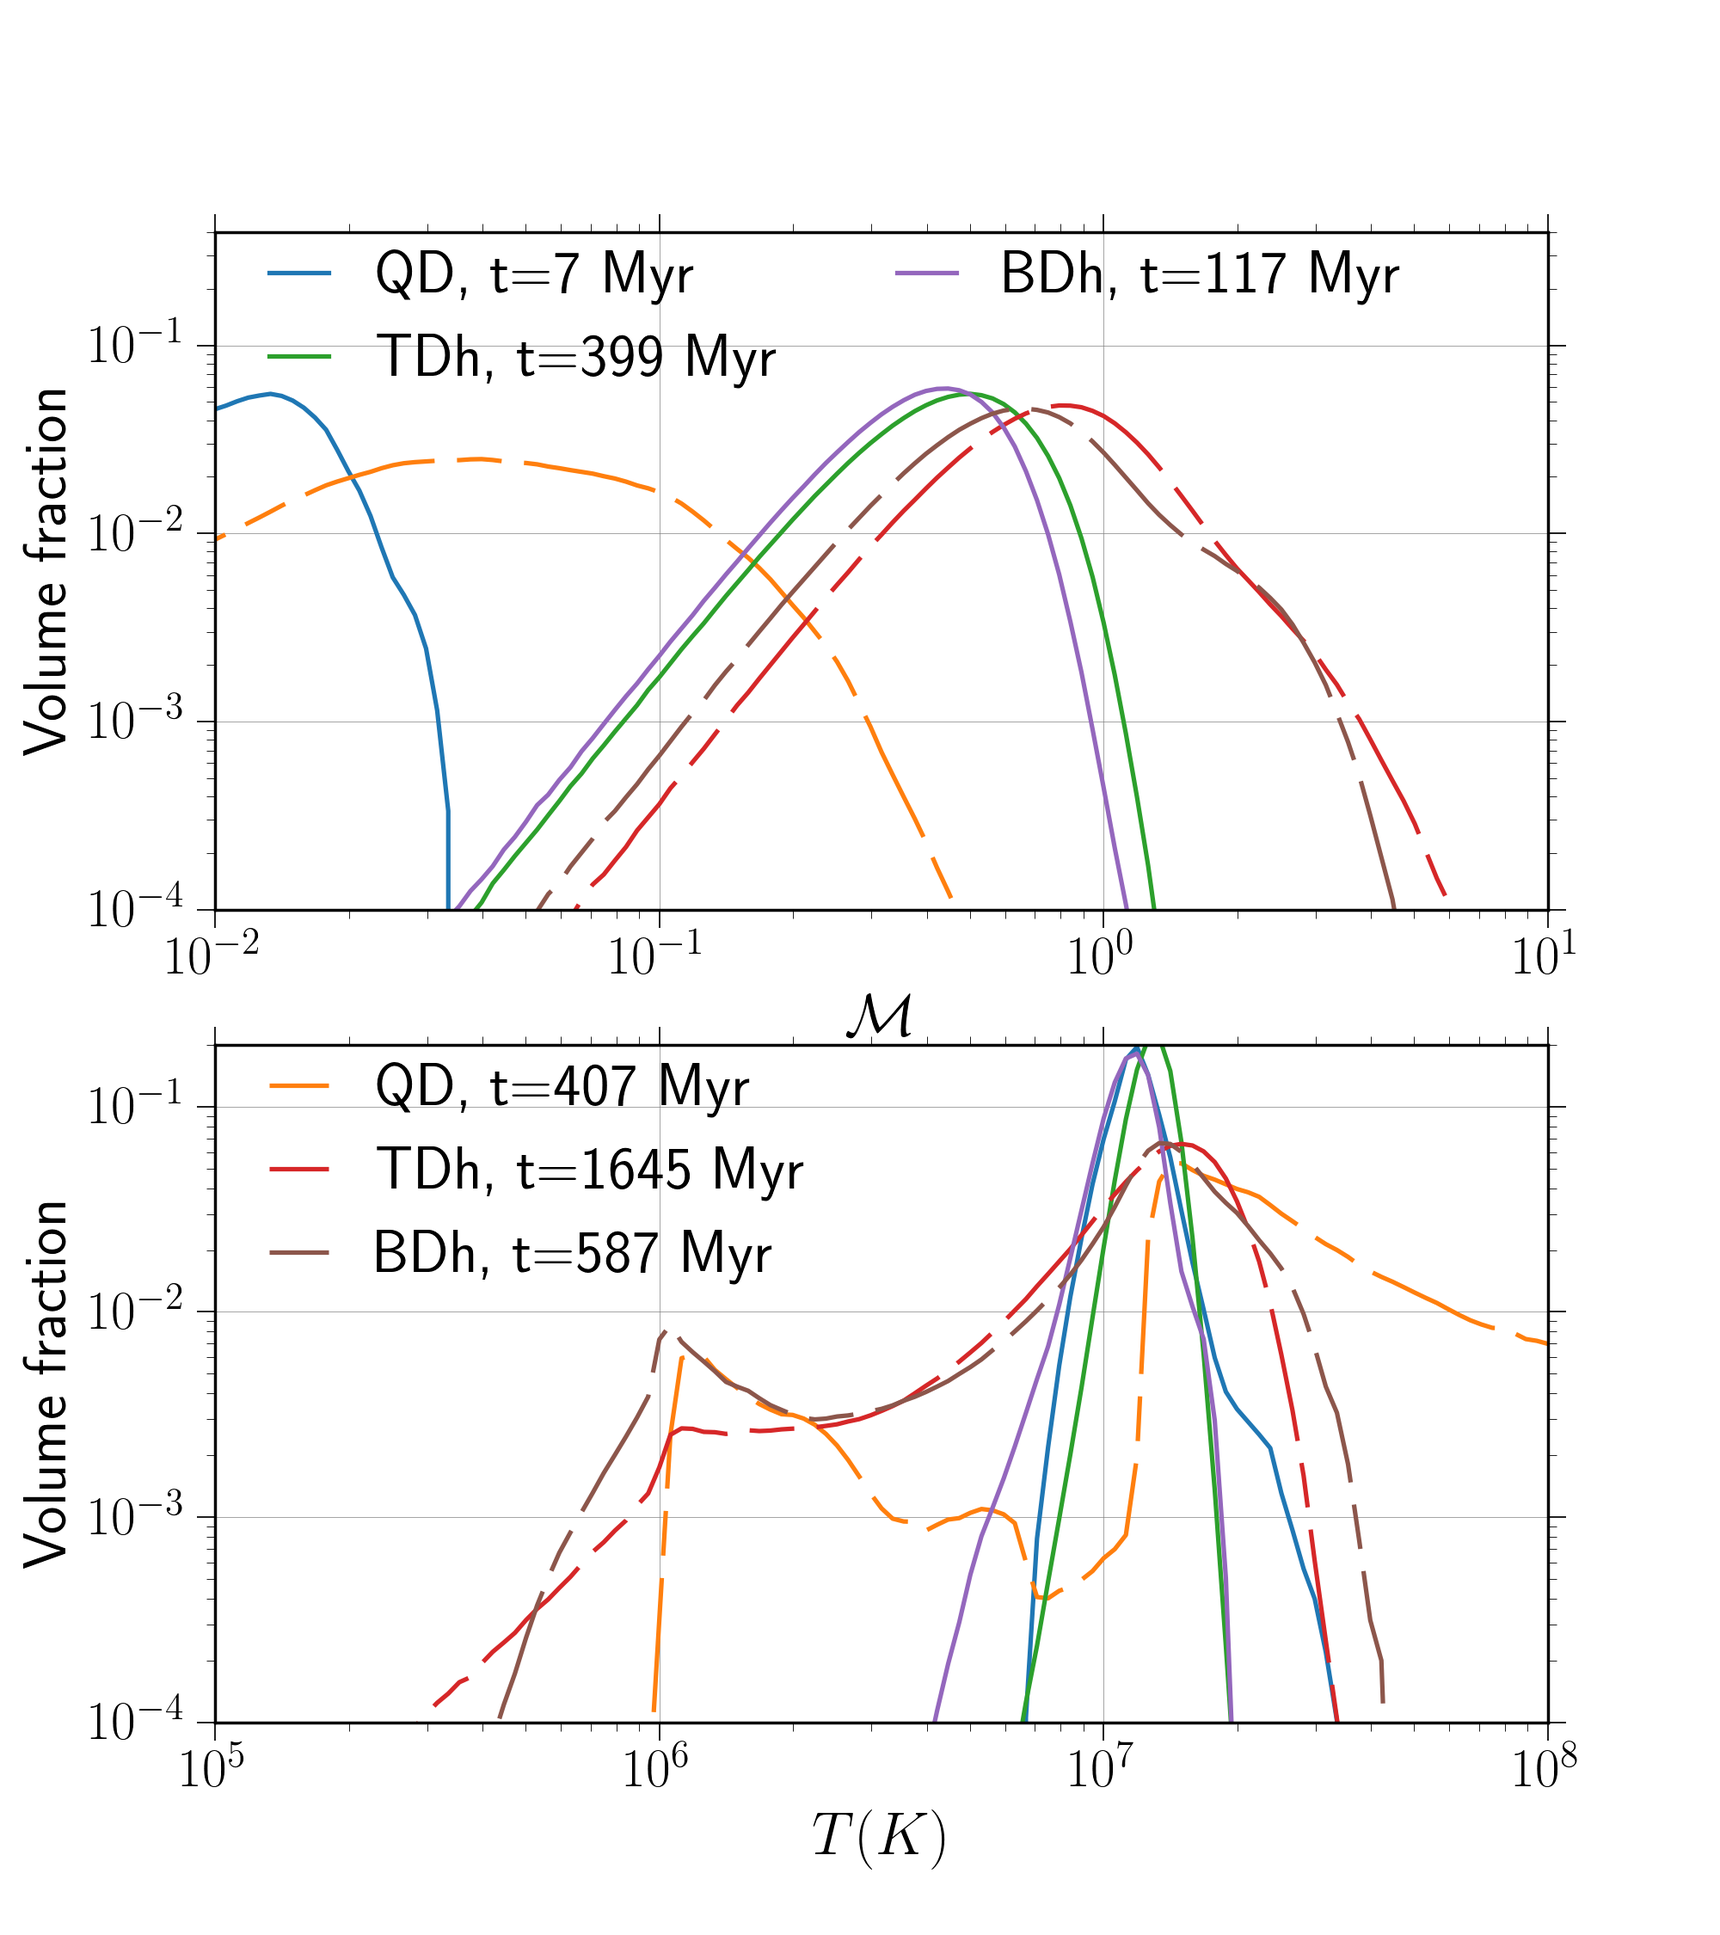
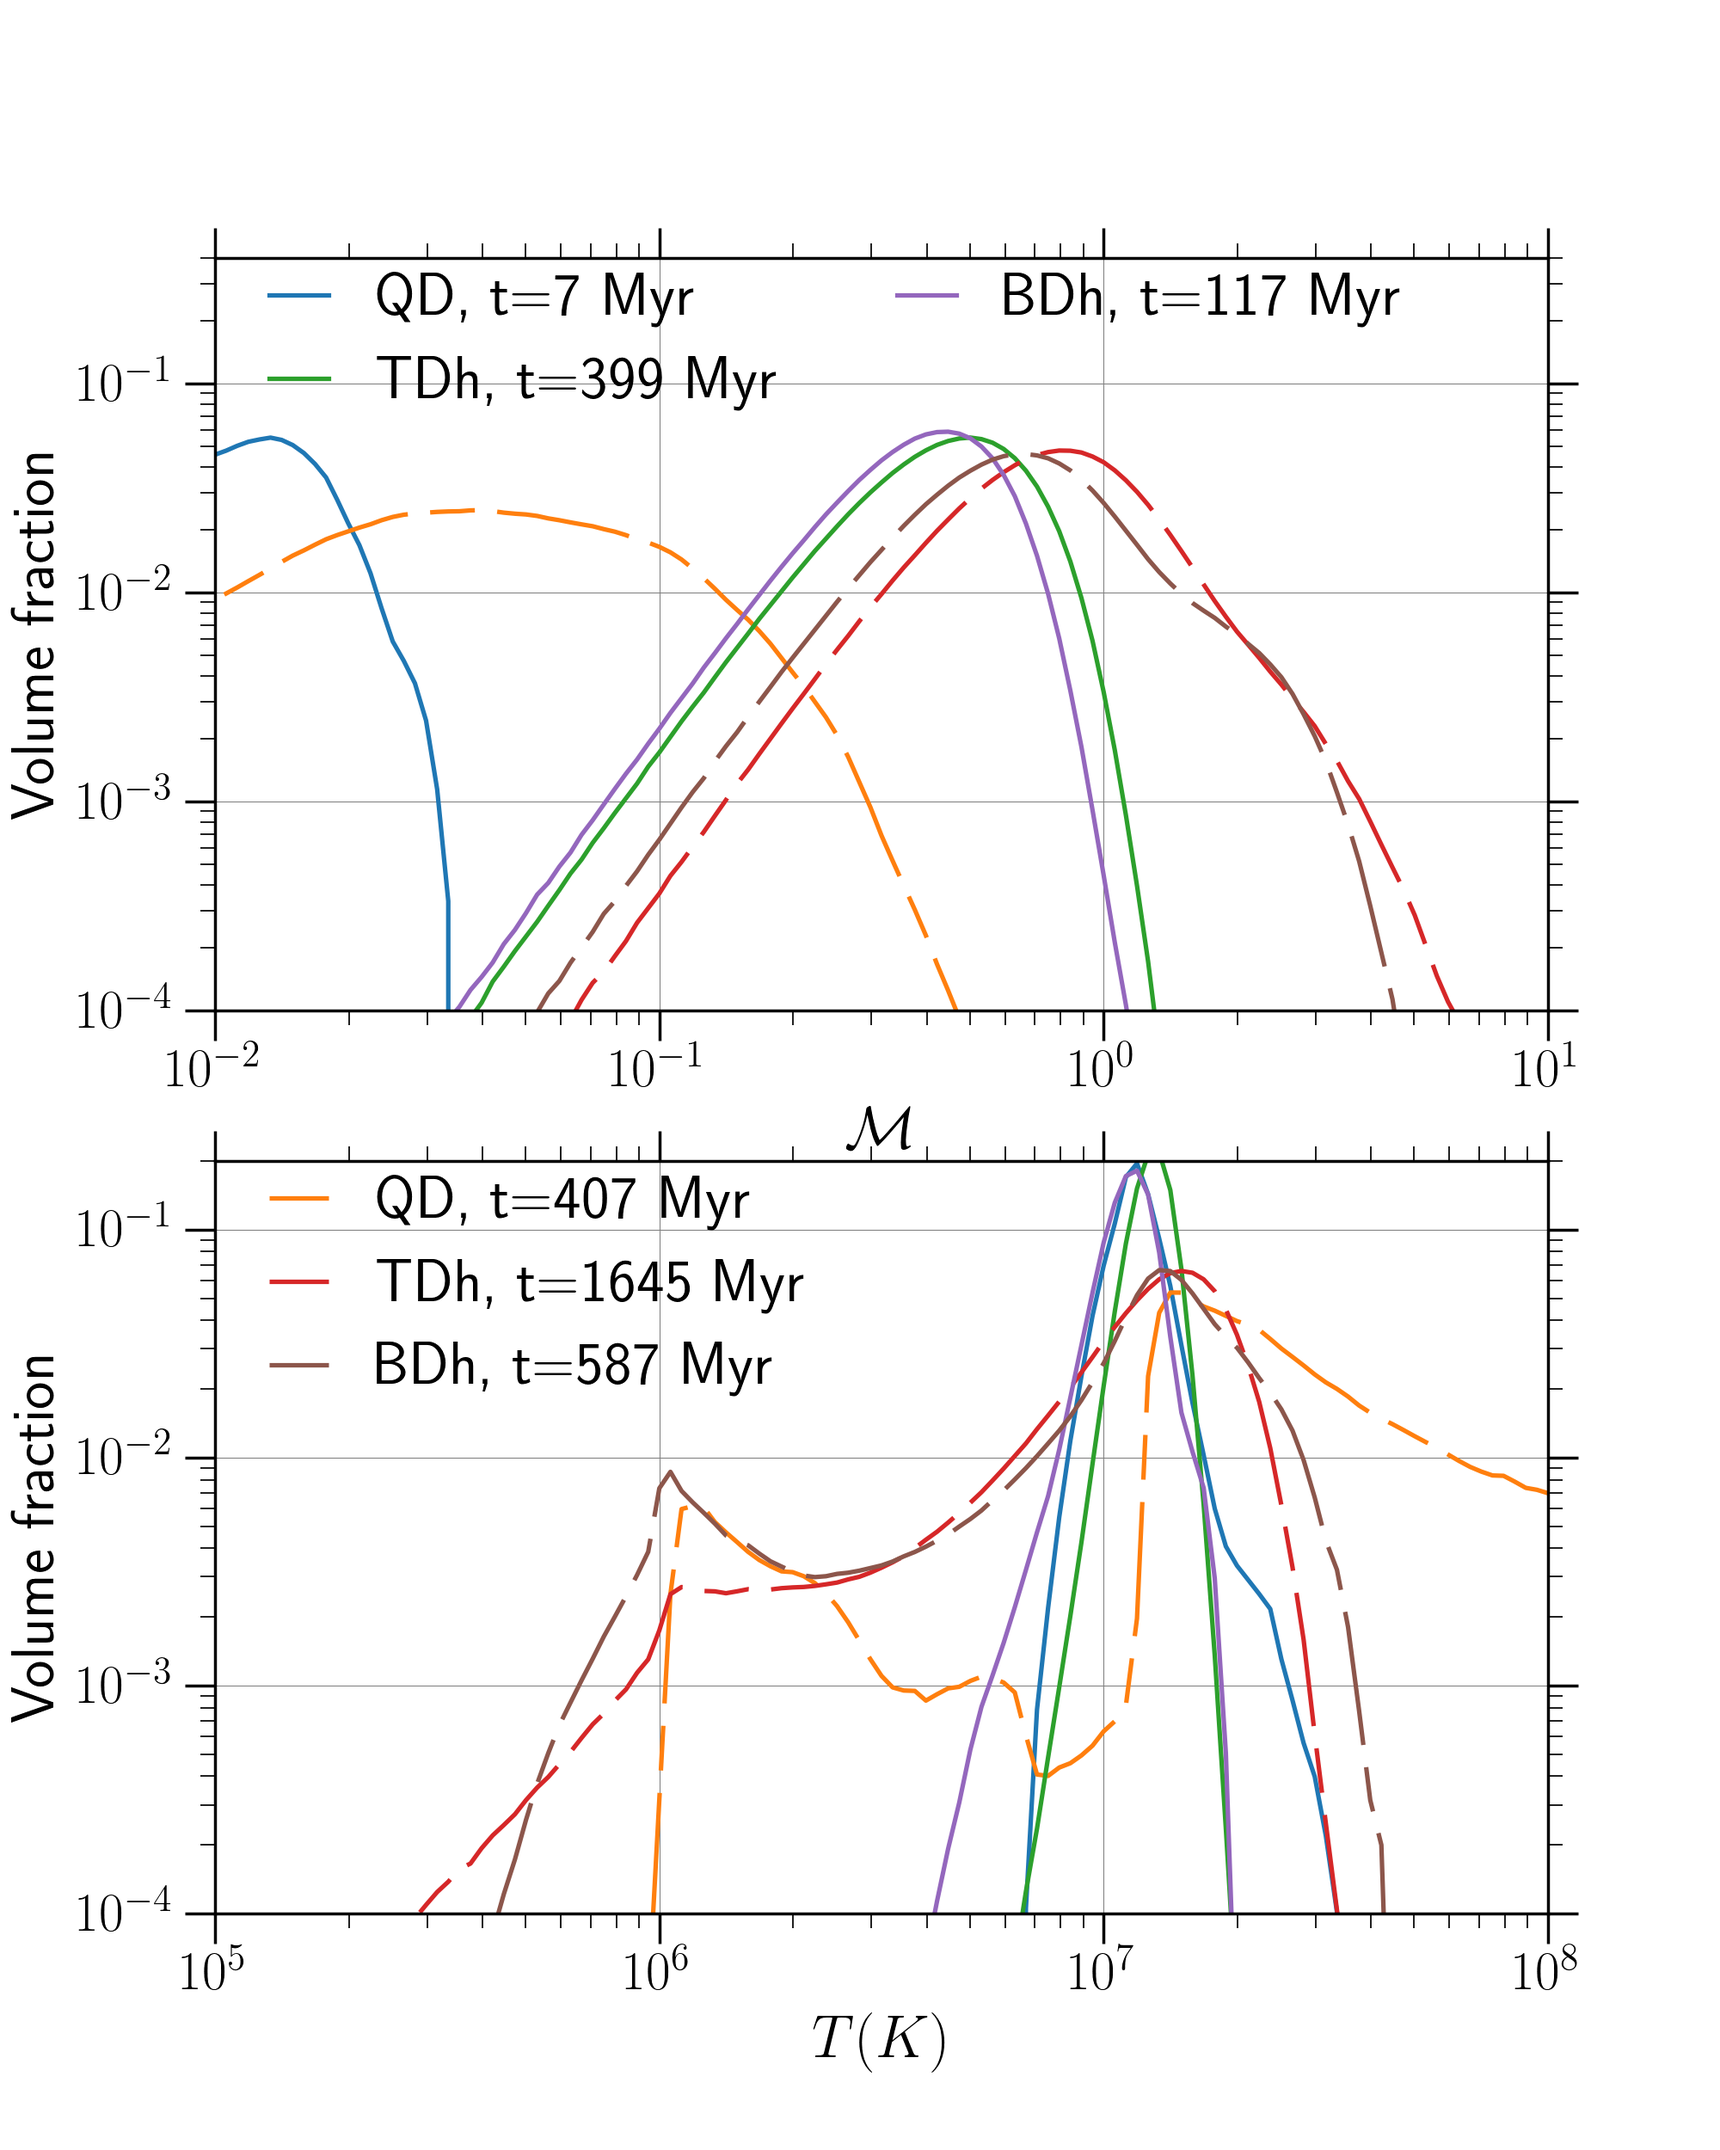
Edited plots

diff --git a/mach_temp_dist/mach-temp-dist.py b/mach_temp_dist/mach-temp-dist.py
@@ -32,33 +32,33 @@ nx,ny,nz=256,256,256
 #step_size=(0.2, 0.2, 0.2, 0.2, 1.0, 0.2, 0.2, 0.2, 1.0, 0.2, 0.2, 0.2, 0.2)
 
 #wdir=('thermal_heating/256/tabulated_cooling/F5e-1/k0-2/', 'thermal_heating/256/tabulated_cooling/F5e-1/k12/')
-wdir=('tabulated_cooling/256/k0-2/', 'tabulated_cooling/256/k12/')
-#wdir=('no_turb/2e-1/', 'turb_perturb//DkHC2e-1/', 'turb_perturb/DBh2e-1/F5e-1/')
+#wdir=('tabulated_cooling/256/k0-2/', 'tabulated_cooling/256/k12/')
+wdir=('no_turb/2e-1/', 'turb_perturb//DkHC2e-1/', 'turb_perturb/DBh2e-1/F5e-1/')
 
 #labels=('Bl', 'Bh')
-labels=('Tl', 'Th')
-#labels=('QD', 'TDh', 'BDh')
+#labels=('Tl', 'Th')
+labels=('QD', 'TDh', 'BDh')
 
 #num_plots=2
-num_plots=2
-#num_plots=3
+#num_plots=2
+num_plots=3
 
 distM = [None] * (num_plots)
 distT = [None] * (num_plots)
 
 #t_mp=(10., 42.)
-t_mp=(10., 51.)
-#t_mp=(10.4, 42., 15.)
+#t_mp=(10., 51.)
+t_mp=(10.4, 42., 15.)
 
 #t_turb=(1., 4.8)
-t_turb=(0.8, 4.8)
-#t_turb=(0.2, 10.2, 3.)
+#t_turb=(0.8, 4.8)
+t_turb=(0.2, 10.2, 3.)
 
 step_size=np.array((0.2))#, 0.2, 0.2))
 
 #Initialise the figure
 fig, (ax1, ax2) = plt.subplots(2, 1)
-fig.set_size_inches(8, 9)
+fig.set_size_inches(8, 10.)
 
 for i in xrange(num_plots):
 	j=i
@@ -69,47 +69,48 @@ for i in xrange(num_plots):
 	file=filedir+'mach'+str(int(t_mp[i]/step_size+0.1)).rjust(4,'0')+'.txt'
 	data = np.loadtxt(file, skiprows=1, usecols=(0,1))
 	ax1.plot(data[:,0], data[:,1]/(float(nx*ny*nz)), dashes=[30, 5, 10, 5], )
-	ax1.set_xscale('log')
-	ax1.set_yscale('log')
-	ax1.set_xlim(1e-2, 1e1)
-	ax1.set_ylim(1e-4, 4e-1)
-	ax1.set_xlabel(r'$\mathcal{M}$', fontsize=20)
-	ax1.set_ylabel(r'Volume fraction', fontsize=20)
-	# Shrink current axis by 20%
-	box = ax1.get_position()
-	ax1.set_position([box.x0, box.y0, box.width, box.height])
-	#plt.savefig('mach-dist.png',dpi=250)
-	ax1.tick_params(axis='both', which='major', direction='out', length=6, width=0.5, top=True, right=True)
-	ax1.tick_params(axis='both', which='minor', direction='out', length=3, width=0.25, top=True, right=True)
-	ax1.grid(color='grey', linestyle='-', linewidth=0.2)
-	
 
-
-	filedir='/mnt/lustre/ug4/ugrajs/cooling/'+wdir[i]
 	file=filedir+'temp'+str(int(t_turb[i]/step_size+0.1)).rjust(4,'0')+'.txt'
 	data = np.loadtxt(file, skiprows=1, usecols=(0,1))
 	ax2.plot(data[:,0], data[:,1]/(float(nx*ny*nz)))
 	file=filedir+'temp'+str(int(t_mp[i]/step_size+0.1)).rjust(4,'0')+'.txt'
 	data = np.loadtxt(file, skiprows=1, usecols=(0,1))
 	distT[j], =ax2.plot(data[:,0], data[:,1]/(float(nx*ny*nz)), dashes=[30, 5, 10, 5], label=labels[i]+', t='+str(int(t_mp[i]*UNIT_TIME))+' Myr')
-	ax2.set_xscale('log')
-	ax2.set_yscale('log')
-	ax2.set_xlim(1e5, 1e8)
-	ax2.set_ylim(1e-4, 2e-1)
-	ax2.set_xlabel(r'$T(K)$', fontsize=20)
-	ax2.set_ylabel(r'Volume fraction', fontsize=20)
-	box = ax2.get_position()
-	#plt.savefig('temp-dist.png',dpi=250)
-	ax2.tick_params(axis='both', which='major', direction='out', length=6, width=0.5, top=True, right=True)
-	ax2.tick_params(axis='both', which='minor', direction='out', length=3, width=0.25, top=True, right=True)
-	ax2.grid(color='grey', linestyle='-', linewidth=0.2)
+
+ax1.set_xscale('log')
+ax1.set_yscale('log')
+ax1.set_xlim(1e-2, 1e1)
+ax1.set_ylim(1e-4, 4e-1)
+ax1.set_xlabel(r'$\mathcal{M}$', fontsize=20)
+ax1.set_ylabel(r'Volume fraction', fontsize=20)
+# Shrink current axis by 20%
+box = ax1.get_position()
+ax1.set_position([box.x0, box.y0, box.width, box.height])
+#plt.savefig('mach-dist.png',dpi=250)
+
+ax2.set_xscale('log')
+ax2.set_yscale('log')
+ax2.set_xlim(1e5, 1e8)
+ax2.set_ylim(1e-4, 2e-1)
+ax2.set_xlabel(r'$T(K)$', fontsize=20)
+ax2.set_ylabel(r'Volume fraction', fontsize=20)
+box = ax2.get_position()
+#plt.savefig('temp-dist.png',dpi=250)
+
+ax1.tick_params(axis='both', which='major', direction='out', length=10, width=1.0, top=True, right=True)
+ax1.tick_params(axis='both', which='minor', direction='out', length=5, width=0.5, top=True, right=True)
+ax1.grid(color='grey', linestyle='-', linewidth=0.3)
+
+ax2.tick_params(axis='both', which='major', direction='out', length=10, width=1.0, top=True, right=True)
+ax2.tick_params(axis='both', which='minor', direction='out', length=5, width=0.5, top=True, right=True)
+ax2.grid(color='grey', linestyle='-', linewidth=.3)
 
 distM_legend=ax1.legend(handles=distM, loc='upper left', ncol=2, fancybox=True, framealpha=0., bbox_to_anchor=(0., 1.05))
 distT_legend=ax2.legend(handles=distT, loc='upper left', ncol=1, fancybox=True, framealpha=0., bbox_to_anchor=(0., 1.05))
 
 #plt.savefig('mach-temp-dist-B.png',dpi=250, mode="expand", borderaxespad=0.)
-plt.savefig('mach-temp-dist-T.png',dpi=250, mode="expand", borderaxespad=0.)
-#plt.savefig('mach-temp-dist-D.png',dpi=250, mode="expand", borderaxespad=0.)
+#plt.savefig('mach-temp-dist-T.png',dpi=250, mode="expand", borderaxespad=0.)
+plt.savefig('mach-temp-dist-D.png',dpi=250, mode="expand", borderaxespad=0.)
 
 plt.close()
 
